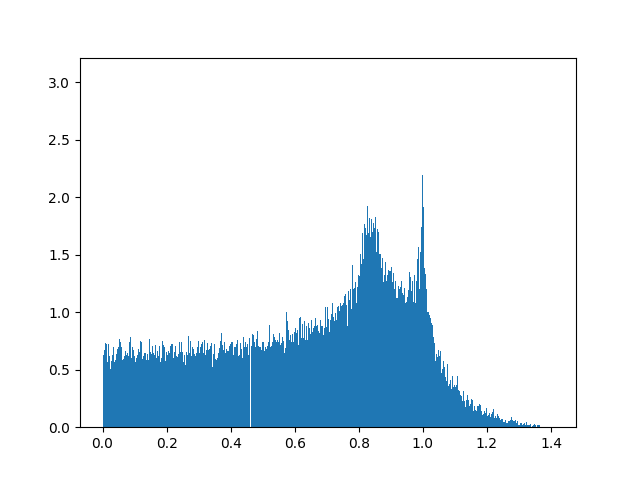
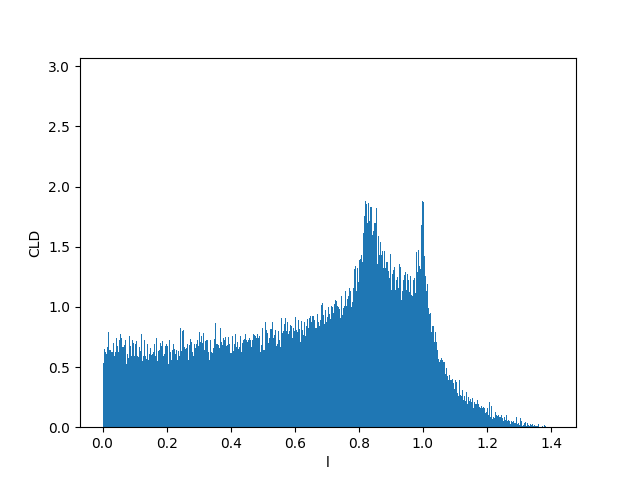
axis names

diff --git a/report.tex b/report.tex
@@ -3,3 +3,31 @@
 For now we studied 4 shapes : regular tetrahedron, cube, regular pyramid and regular triangular prism :
 
 \includegraphics[width=0.8\textwidth]{Images/p_shapes.png}
+
+In each case, we will consider all edges of the same length.
+
+\subsubsection{CLD plots}
+
+Here, we use Monte-Carlo to obtain the $CLD(l)$ plots for each shape.
+
+Method : 
+\begin{itemize}
+    \item Generate a basic tetrahedron (or cube, pyramid or prism), with known position and orientation.
+    \item Rotate it uniformly randomly.
+    \item Project it on the x-y plane.
+    \item generate a chord along the y-axis with a uniform random y-coordinate.
+    \item Find the intersection of the chord with the projection. Its length is the chord length.
+    \item Save the chord length.
+    \item Repeat the process from step 1.
+    \item Plot the CLDs as histograms.
+\end{itemize}
+
+\vspace{0.5cm} 
+
+Note : There is two types of CLD plots : 
+\begin{itemize}
+    \item The cumulative one : $CLD(l) = Q(l) = P(L \leq l)$
+    \item The differential one : $CLD(l) = q(l) = P(L = l) (density)$
+\end{itemize}
+
+The obtained plots are as follows :

diff --git a/mesh.py b/mesh.py
@@ -184,6 +184,7 @@ def plot_cumulative_cld_hist(chords, name, bins=100) :
     chords.sort()
     plt.figure()
     plt.hist(chords, bins=bins, cumulative=True, density=True, histtype='step')
+    plt.xlabel('l'), plt.ylabel('cumulative_CLD')
     plt.savefig("MeshPlots/clds/"+name)
     plt.close()
 
@@ -196,6 +197,7 @@ def plot_cld_hist(chords, name, bins=100) :
     """
     plt.figure()
     plt.hist(chords, bins=bins, density=True)
+    plt.xlabel('l'), plt.ylabel('CLD')
     plt.savefig("MeshPlots/clds/"+name)
     plt.close()
 
